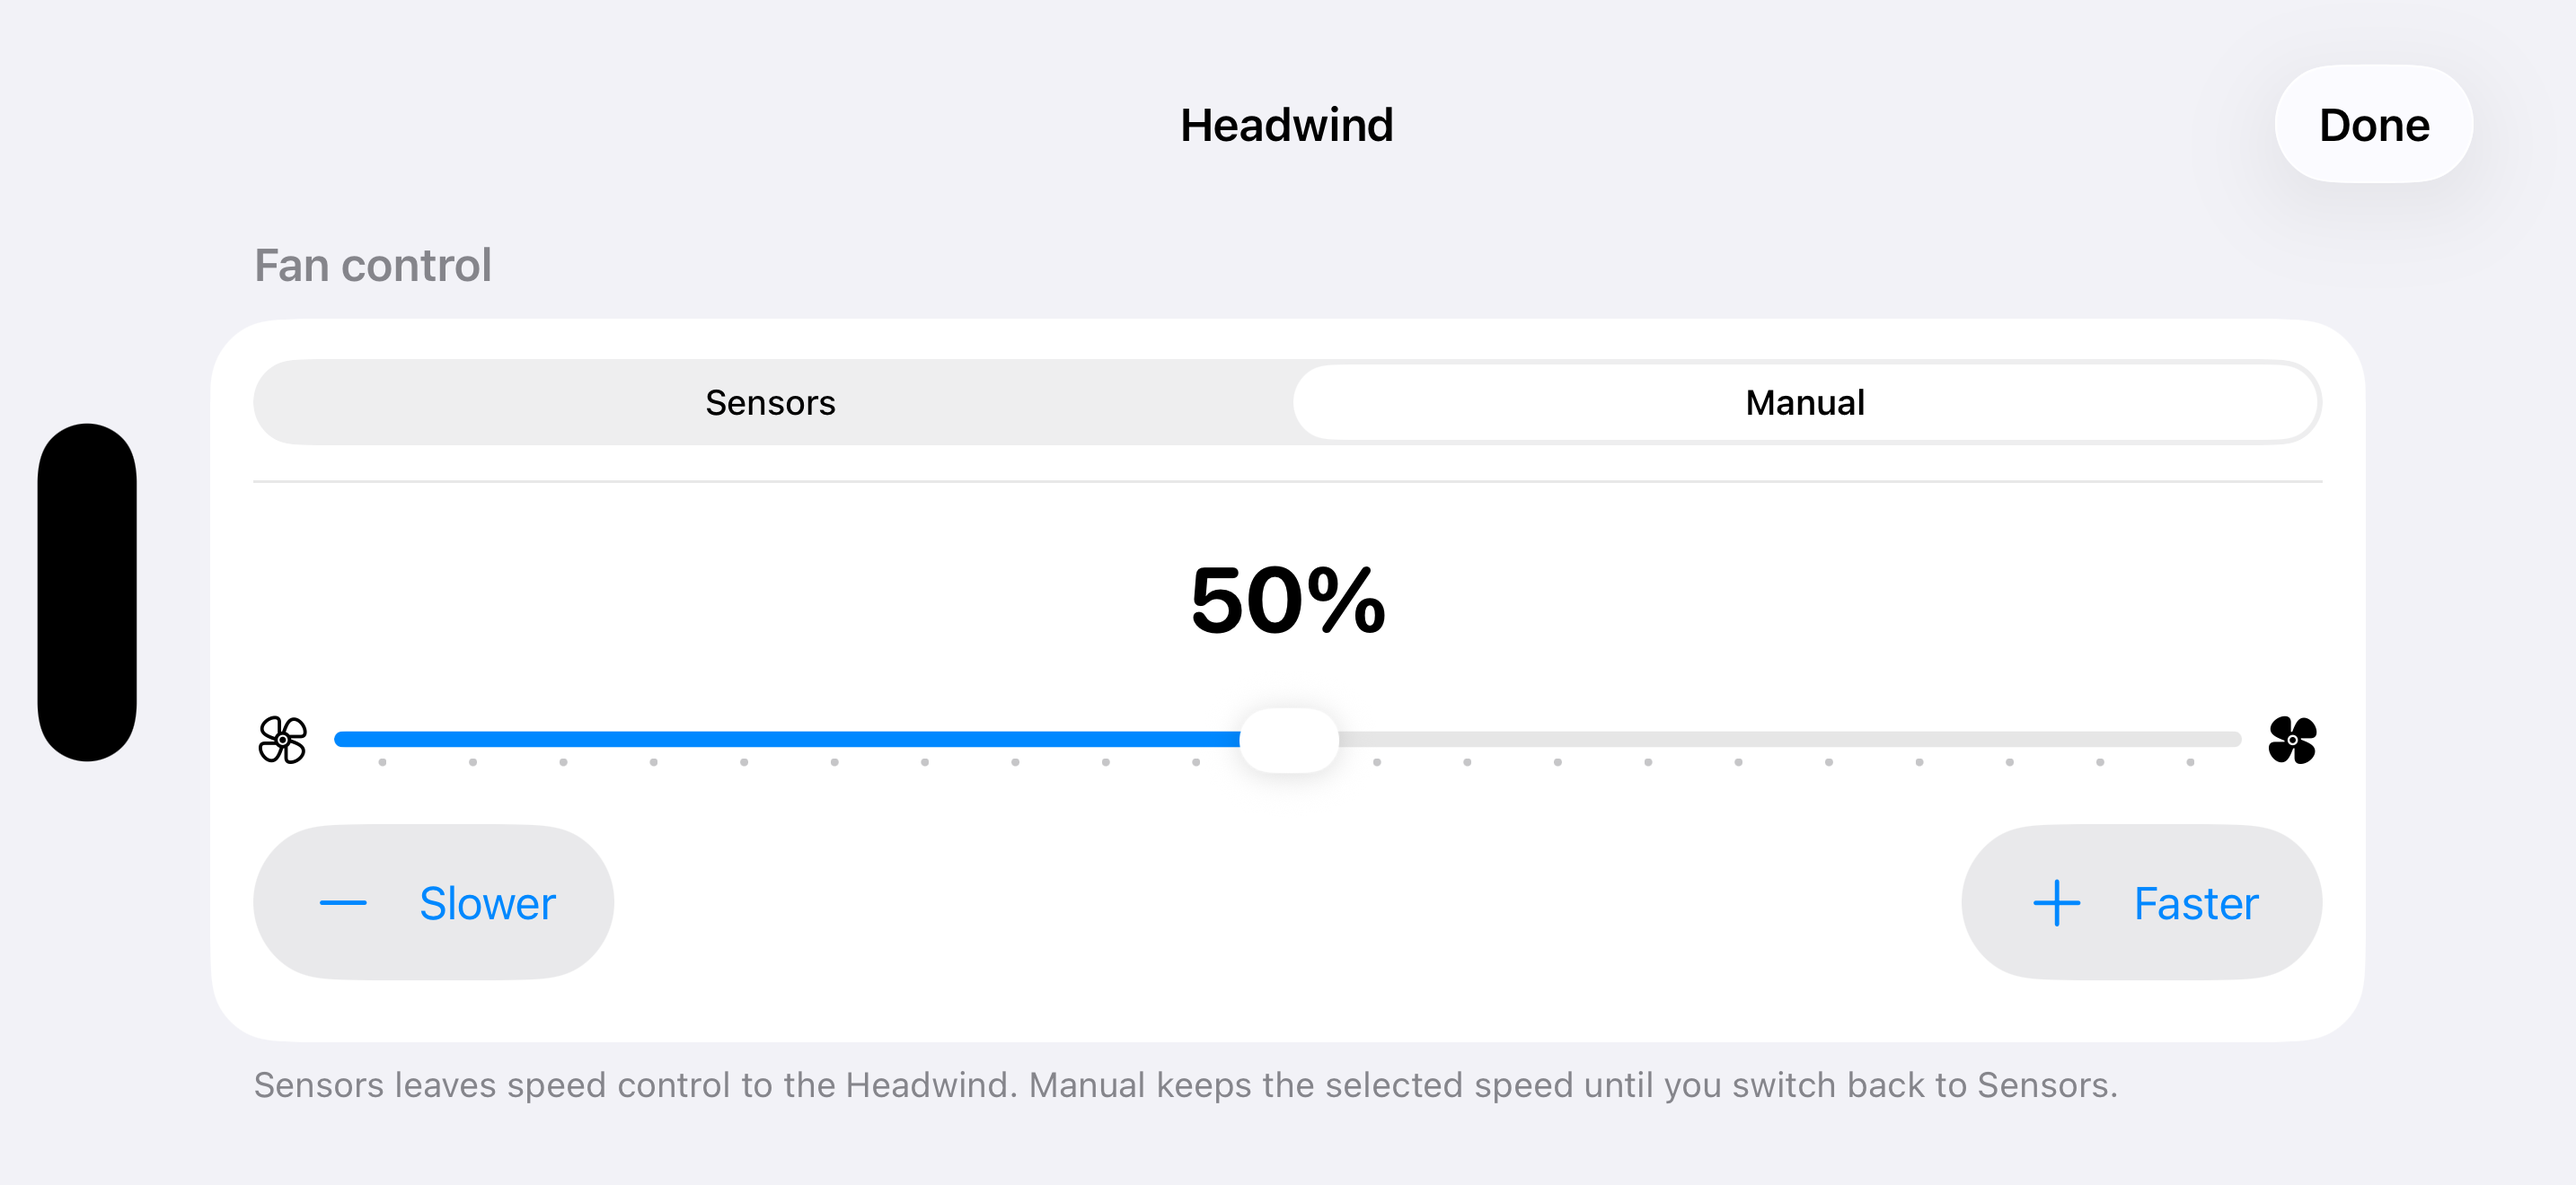
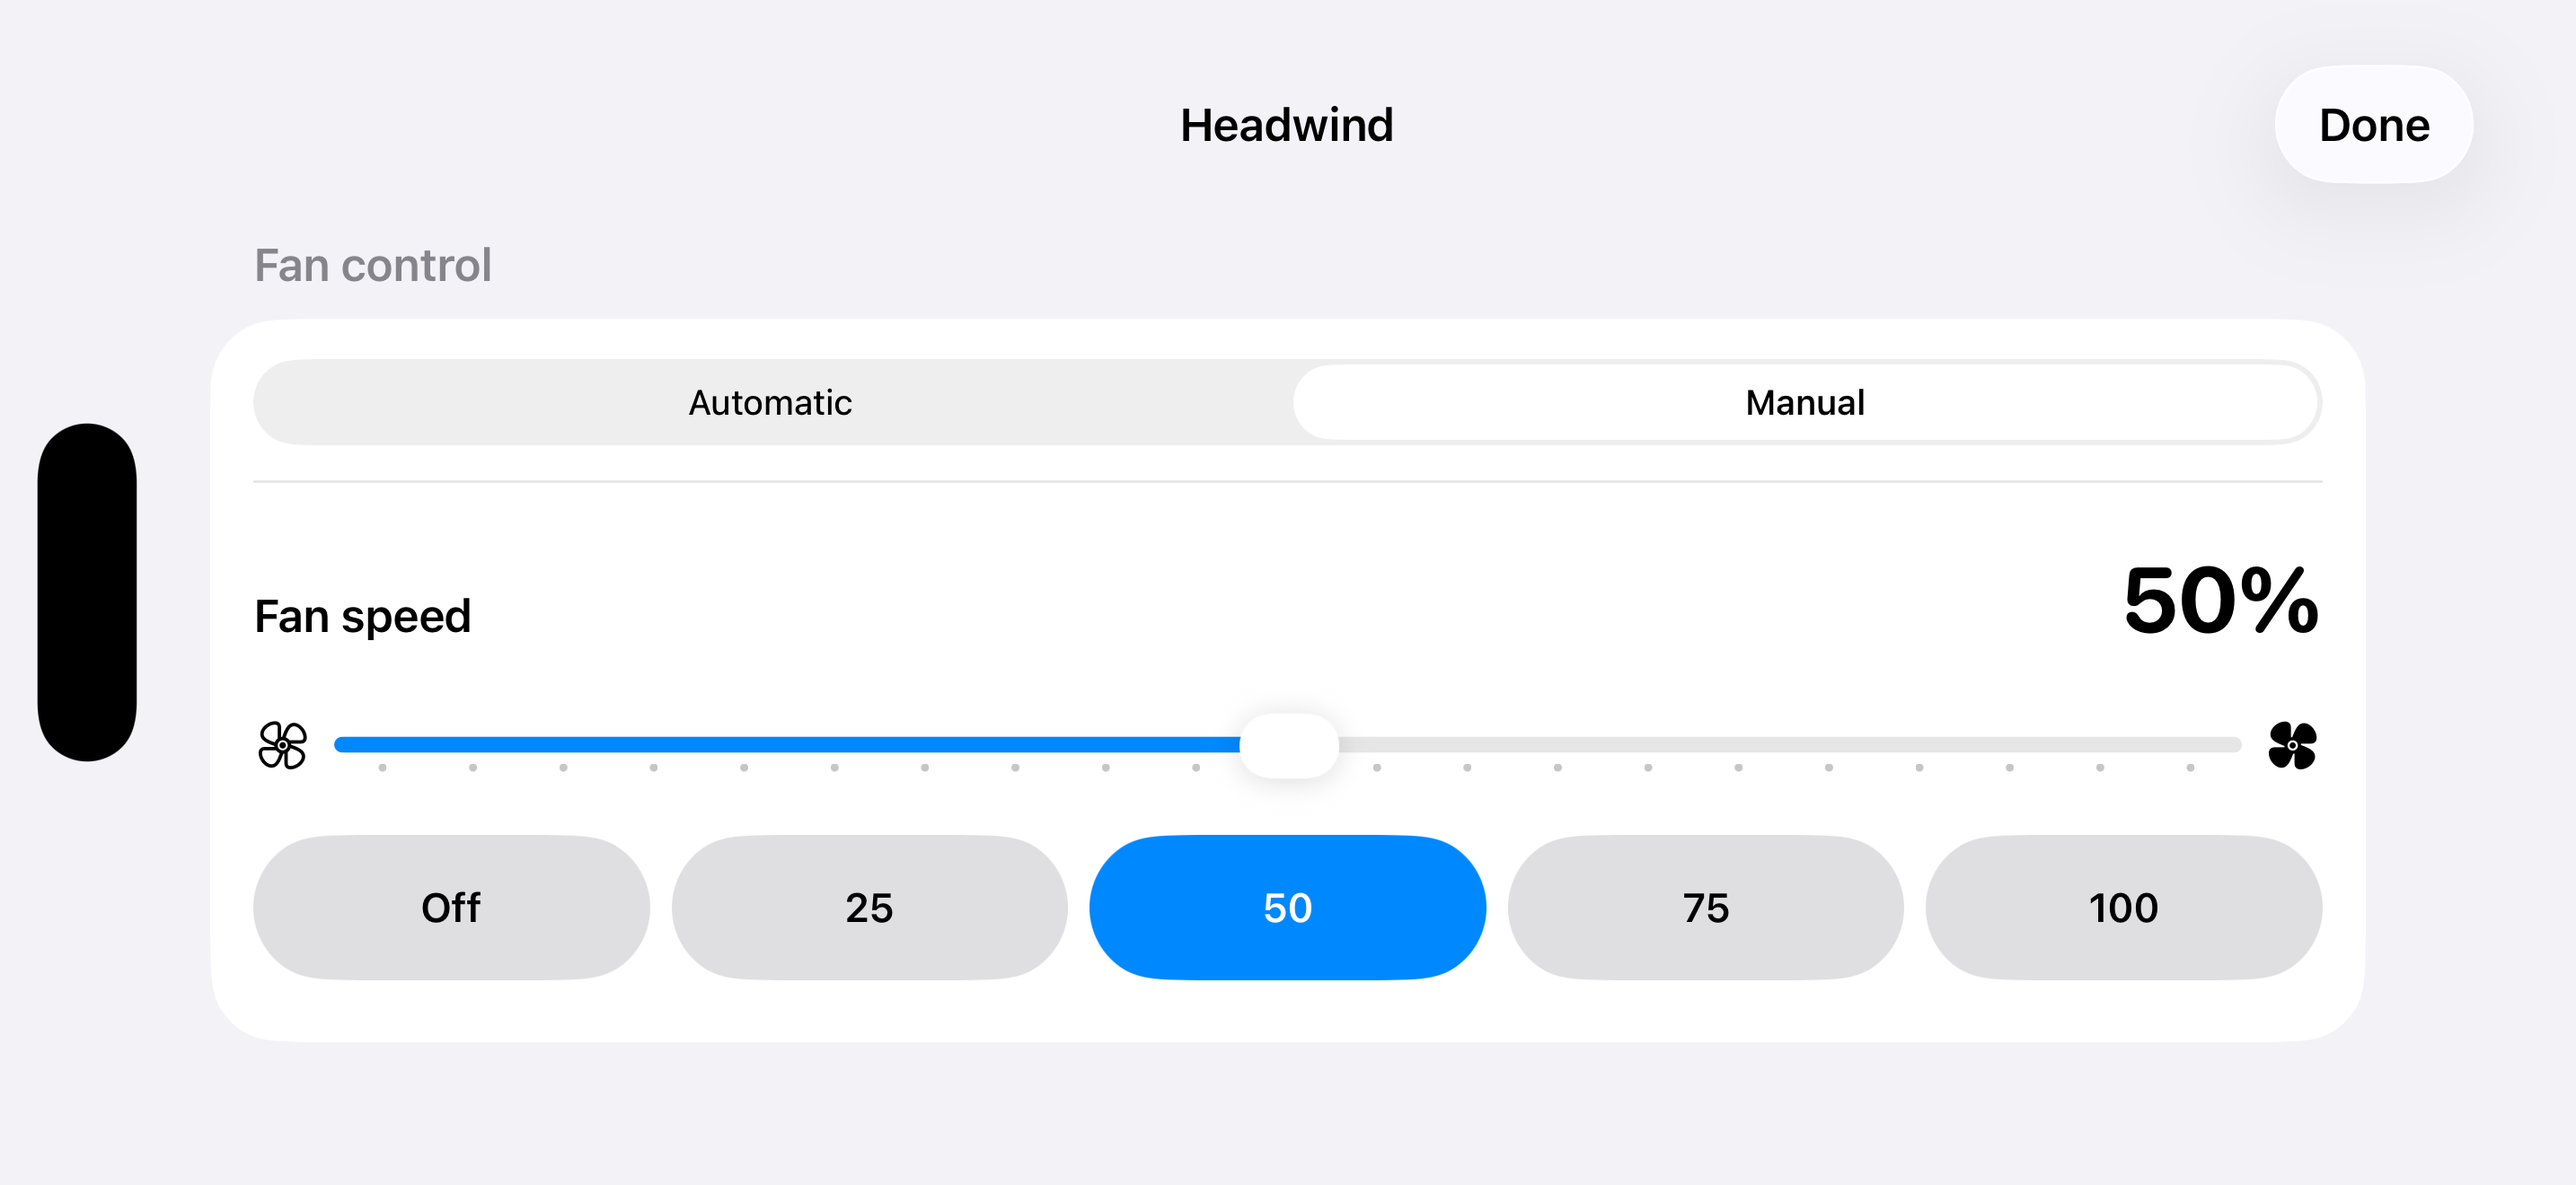
Improve Headwind ride controls (#16)
Make Automatic and Manual modes clearer, add one-tap speed presets, keep controls fully visible in each orientation, and refresh the matching documentation screenshots.

Copilot-Session: 2c3d711c-cb97-4bfa-a302-2d01fe5d2f1f

diff --git a/VirtualShiftProduct/SetupView.swift b/VirtualShiftProduct/SetupView.swift
@@ -467,7 +467,7 @@ struct HeadwindControlView: View {
 
     var body: some View {
         Form {
-            HeadwindControls(headwind: headwind)
+            HeadwindControls(headwind: headwind, showsHelp: false)
         }
         .navigationTitle("Headwind")
         .navigationBarTitleDisplayMode(.inline)
@@ -483,22 +483,37 @@ struct HeadwindControlView: View {
 }
 
 private struct HeadwindControls: View {
+    @Environment(\.verticalSizeClass) private var verticalSizeClass
     @Bindable var headwind: HeadwindCentralService
+    var showsHelp = true
+    private let quickSpeeds = [0, 25, 50, 75, 100]
 
     var body: some View {
         Section {
             Picker("Fan control", selection: manualBinding) {
-                Text("Sensors").tag(false)
+                Text("Automatic").tag(false)
                 Text("Manual").tag(true)
             }
             .pickerStyle(.segmented)
             .disabled(!headwind.isReady || headwind.isCommandPending)
 
+            if verticalSizeClass != .compact {
+                modeSummary
+            }
+
             if headwind.isManual || manualBinding.wrappedValue {
-                VStack(spacing: 16) {
-                    Text("\(headwind.desiredManualSpeed)%")
-                        .font(.system(.largeTitle, design: .rounded).weight(.bold))
-                        .contentTransition(.numericText())
+                VStack(alignment: .leading, spacing: 18) {
+                    HStack(alignment: .firstTextBaseline) {
+                        Text("Fan speed")
+                            .font(.headline)
+                        Spacer()
+                        Text("\(headwind.desiredManualSpeed)%")
+                            .font(
+                                .system(.largeTitle, design: .rounded)
+                                    .weight(.bold)
+                            )
+                            .contentTransition(.numericText())
+                    }
 
                     Slider(
                         value: speedBinding,
@@ -512,18 +527,25 @@ private struct HeadwindControls: View {
                         Image(systemName: "fan.fill")
                     }
 
-                    HStack {
-                        speedButton(
-                            title: "Slower",
-                            symbol: "minus",
-                            change: -5
-                        )
-                        Spacer()
-                        speedButton(
-                            title: "Faster",
-                            symbol: "plus",
-                            change: 5
-                        )
+                    HStack(spacing: 8) {
+                        ForEach(quickSpeeds, id: \.self) { speed in
+                            quickSpeedButton(speed)
+                        }
+                    }
+
+                    if verticalSizeClass != .compact {
+                        HStack(spacing: 12) {
+                            speedButton(
+                                title: "Slower",
+                                symbol: "minus",
+                                change: -5
+                            )
+                            speedButton(
+                                title: "Faster",
+                                symbol: "plus",
+                                change: 5
+                            )
+                        }
                     }
                 }
                 .padding(.vertical, 8)
@@ -532,15 +554,6 @@ private struct HeadwindControls: View {
                         || headwind.isCommandPending
                         || !headwind.requestedManual
                 )
-            } else {
-                LabeledContent(
-                    "Headwind mode",
-                    value: headwind.mode?.label ?? headwind.lastSensorMode.label
-                )
-            }
-
-            if headwind.isCommandPending {
-                SearchingRow(message: "Applying fan control…")
             }
             if let error = headwind.commandError {
                 Label(error, systemImage: "exclamationmark.triangle.fill")
@@ -550,11 +563,50 @@ private struct HeadwindControls: View {
         } header: {
             Text("Fan control")
         } footer: {
-            Text(
-                "Sensors leaves speed control to the Headwind. Manual keeps "
-                    + "the selected speed until you switch back to Sensors."
-            )
+            if showsHelp {
+                Text(
+                    "Automatic uses the sensor already paired to your Headwind. "
+                        + "Manual holds a fixed speed until you switch back."
+                )
+            }
         }
+    }
+
+    private var modeSummary: some View {
+        HStack(spacing: 12) {
+            Image(
+                systemName: manualBinding.wrappedValue
+                    ? "slider.horizontal.3" : "sensor.tag.radiowaves.forward"
+            )
+            .font(.title2)
+            .foregroundStyle(.blue)
+            .frame(width: 32)
+
+            VStack(alignment: .leading, spacing: 2) {
+                Text(manualBinding.wrappedValue ? "Fixed fan speed" : "Sensor control")
+                    .font(.headline)
+                Text(modeDetail)
+                    .font(.subheadline)
+                    .foregroundStyle(.secondary)
+            }
+
+            Spacer()
+            ProgressView()
+                .opacity(headwind.isCommandPending ? 1 : 0)
+                .accessibilityHidden(!headwind.isCommandPending)
+        }
+        .frame(minHeight: 44)
+        .accessibilityElement(children: .combine)
+    }
+
+    private var modeDetail: String {
+        if headwind.isCommandPending {
+            return "Applying change…"
+        }
+        if manualBinding.wrappedValue {
+            return "Keeps running at the speed you choose"
+        }
+        return "Following \(headwind.lastSensorMode.label.lowercased())"
     }
 
     private var manualBinding: Binding<Bool> {
@@ -582,9 +634,26 @@ private struct HeadwindControls: View {
             headwind.setManualSpeed(headwind.desiredManualSpeed + change)
         } label: {
             Label(title, systemImage: symbol)
-                .frame(minWidth: 110, minHeight: 44)
+                .frame(maxWidth: .infinity, minHeight: 52)
         }
         .buttonStyle(.bordered)
+        .accessibilityHint("Changes fan speed by 5 percent")
+    }
+
+    private func quickSpeedButton(_ speed: Int) -> some View {
+        Button {
+            headwind.setManualSpeed(speed)
+        } label: {
+            Text(speed == 0 ? "Off" : "\(speed)")
+                .font(.subheadline.weight(.semibold))
+                .frame(maxWidth: .infinity, minHeight: 40)
+        }
+        .buttonStyle(
+            .borderedProminent
+        )
+        .tint(headwind.desiredManualSpeed == speed ? .blue : .gray.opacity(0.28))
+        .foregroundStyle(headwind.desiredManualSpeed == speed ? .white : .primary)
+        .accessibilityLabel(speed == 0 ? "Fan off" : "\(speed) percent")
     }
 }
 

diff --git a/VirtualShiftProduct/VirtualShiftHomeView.swift b/VirtualShiftProduct/VirtualShiftHomeView.swift
@@ -576,7 +576,7 @@ private struct ActiveRideView: View {
                     showsFan = false
                 }
             }
-            .presentationDetents([.medium])
+            .presentationDetents([.fraction(0.66)])
         }
         // Asking for gears lands on the gears, not on a screen the rider then
         // has to navigate. Anything else would be a longer way round mid-ride.

diff --git a/README.md b/README.md
@@ -58,10 +58,11 @@ list of tooth counts can tell you.
 locked-out gaze. An original Zwift Click can be added and shifts the same
 gears, but it is never required and nothing ever waits for it.
 
-**Optional Headwind control.** Add a Wahoo Headwind and switch between its own
-sensor control and a manual fan speed from the ride screen. Returning to Sensors
-is explicitly confirmed before VirtualShift disconnects from the fan. The
-controls work in both portrait and landscape.
+**Optional Headwind control.** Add a Wahoo Headwind and choose Automatic or
+Manual from the ride screen. Manual has a slider, one-tap common speeds, and
+large Slower and Faster buttons in portrait. Returning control to the fan's
+sensor is explicitly confirmed before VirtualShift disconnects. The controls
+work in both portrait and landscape.
 
 **Nothing to set up.** Open the app. It looks for your trainer, connects to it,
 starts the session and appears to your riding app, all on its own. There is no

diff --git a/docs/index.md b/docs/index.md
@@ -71,10 +71,11 @@ required and nothing ever waits for it.
 
 ### Headwind control
 
-An optional Wahoo Headwind can use its own paired sensor or a manual speed from
-the ride screen. Manual mode stays on the fan even after Bluetooth disconnects,
-so VirtualShift explicitly returns it to Sensors and waits for confirmation
-before forgetting or replacing it.
+An optional Wahoo Headwind can use Automatic control from its paired sensor or a
+manual speed from the ride screen. Manual offers a slider and one-tap common
+speeds. It stays on the fan even after Bluetooth disconnects, so VirtualShift
+explicitly returns control to the sensor and waits for confirmation before
+forgetting or replacing it.
 
 <p align="center">
   <img src="screenshots/headwind-control.png" width="30%" alt="Headwind manual fan control at 50 percent in portrait">

diff --git a/docs/requirements.md b/docs/requirements.md
@@ -111,12 +111,13 @@ screen if it drops below 20%.
 ## Adding a Wahoo Headwind
 
 Open Settings, choose Wahoo Headwind, and select the nearby fan. During a ride,
-the fan button switches between the Headwind's own sensor control and a manual
-speed from 0–100%.
+the fan button switches between Automatic control from the Headwind's paired
+sensor and a manual speed from 0–100%. Manual has a slider and one-tap buttons
+for Off, 25%, 50%, 75% and 100%.
 
 Manual mode remains on the Headwind after Bluetooth disconnects. VirtualShift
-therefore sends an explicit Sensors command and waits for the fan to confirm it
-before removing or replacing a saved Headwind.
+therefore sends an explicit sensor-control command and waits for the fan to
+confirm it before removing or replacing a saved Headwind.
 
 ## Choosing your gears
 

diff --git a/docs/APP_STORE.md b/docs/APP_STORE.md
@@ -139,7 +139,8 @@ Upload these six, in this order:
 1. `riding.png` — the ride screen, which is what the app is for.
 2. `gears.png` — the 24 virtual gears drawn as bars.
 3. `gears-real-bike.png` — a real 50/34 with 11-34 turned into sixteen gears.
-4. `headwind-control.png` — optional Headwind sensor/manual fan control.
+4. `headwind-control.png` — optional Automatic/Manual Headwind control with
+   one-tap speeds.
 5. `starting.png` — automatic reconnect for the trainer, Click and Headwind.
 6. `settings.png` — the three remembered equipment rows and gear choice.
 

diff --git a/docs/demo.md b/docs/demo.md
@@ -35,8 +35,9 @@
 
 <figure markdown>
   ![Headwind manual fan control at 50 percent](screenshots/headwind-control.png){ width="280" }
-  <figcaption>An optional Headwind can stay with its own sensor or use a manual
-  speed. Slower and Faster are large enough to use on the bike.</figcaption>
+  <figcaption>An optional Headwind can stay on Automatic or use a manual speed.
+  Common speeds take one tap, and Slower and Faster are large enough to use on
+  the bike.</figcaption>
 </figure>
 
 <figure markdown>
